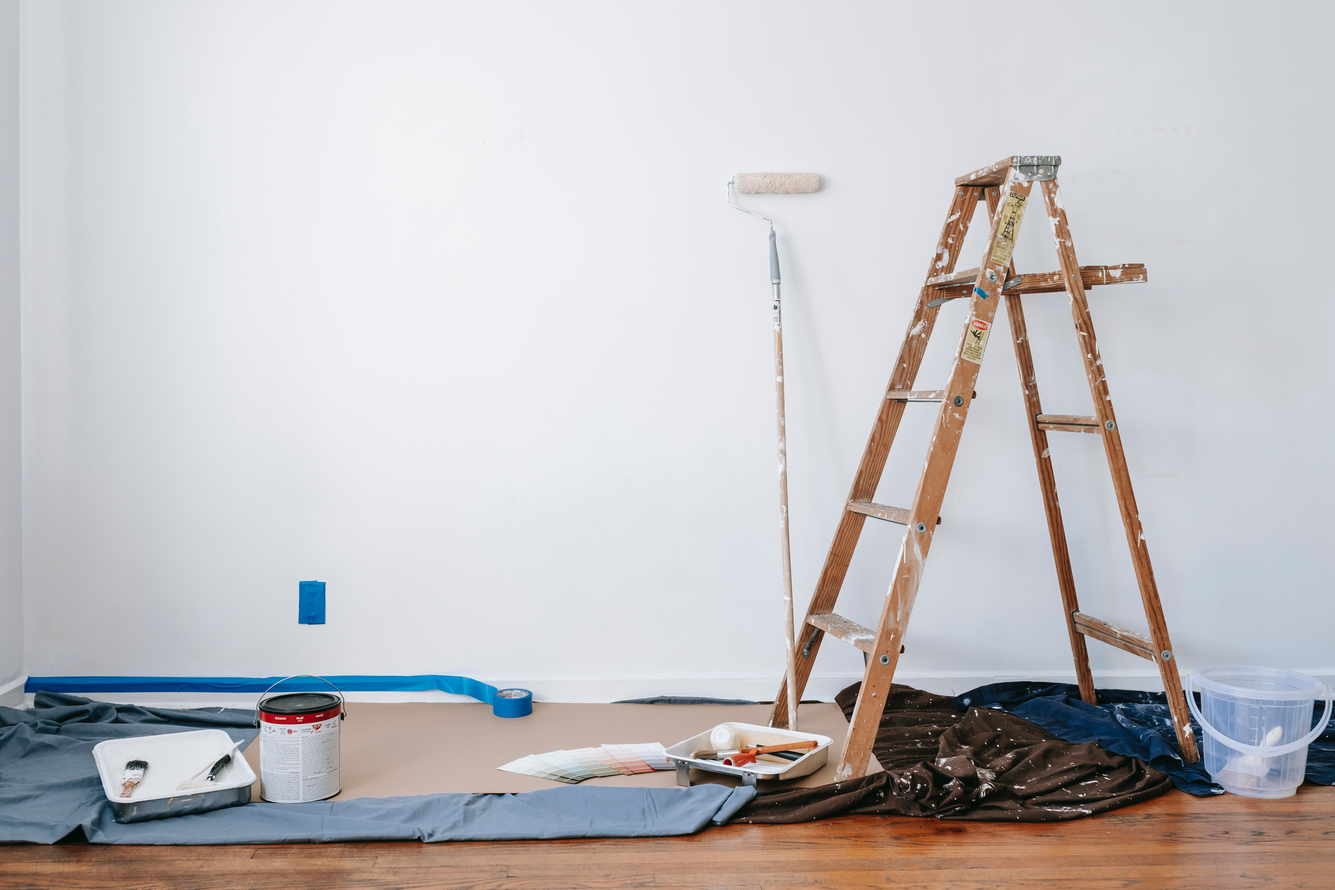
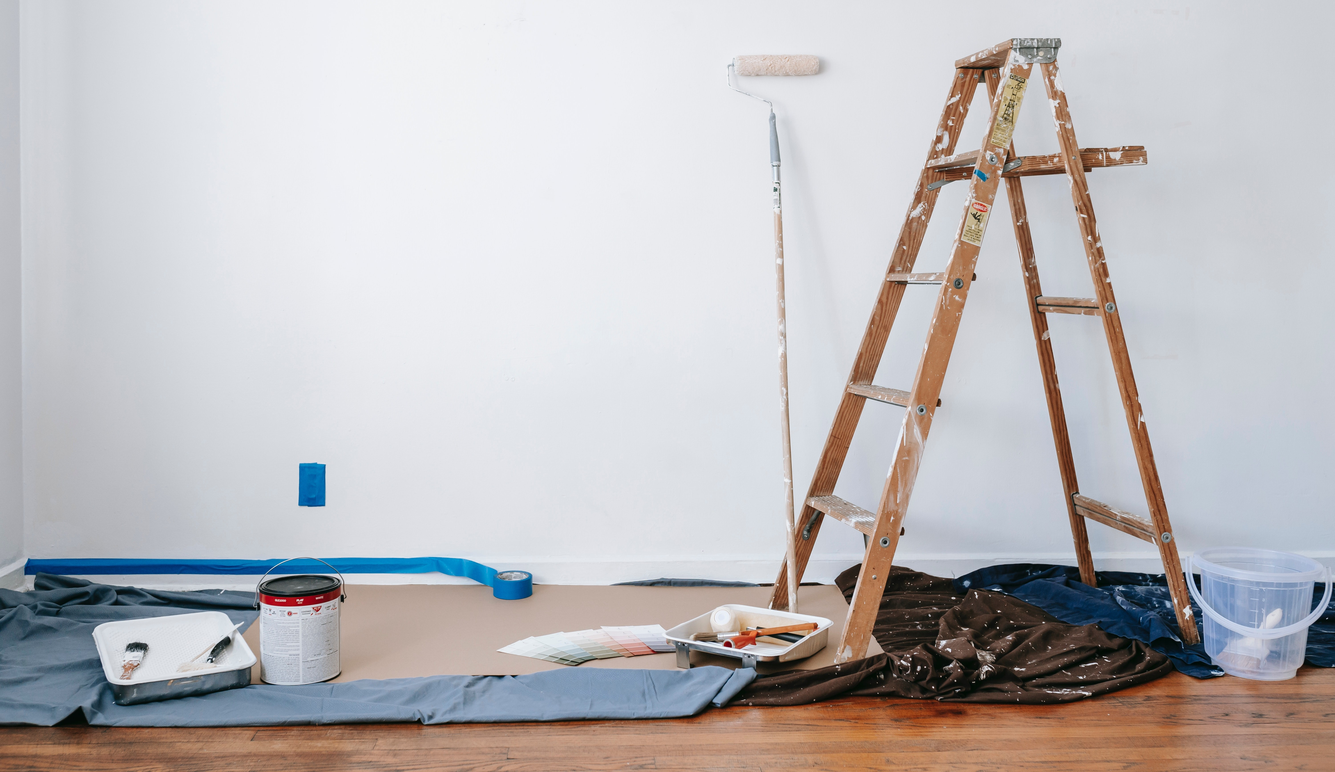
cambio img

Changed region(s): [[0.0, 0.0311, 1.0, 0.9957], [0.5298, 0.0622, 0.6233, 0.1245]]

diff --git a/js/common.js b/js/common.js
@@ -150,7 +150,7 @@
         { src: "images/main.jpg" },
         { src: "images/client.jpg" },
         { src: "images/electricidad.jpg" },
-        { src: "images/team.jpg" },
+        { src: "images/paint.jpg" },
         { src: "images/inpermeabilizacion07.jpg" },
         { src: "images/plomeria02.jpg" }
     ],animation: 'kenburns'

diff --git a/css/style.css b/css/style.css
@@ -795,7 +795,7 @@ owl carousel----------------------------------------------------------*/
 ------------------------------*/
 .our-client
 {
-background: url(../images/team.jpg);
+background: url(../images/paint.jpg);
 background-size: cover;
 background-position: center;
 background-attachment:fixed;
